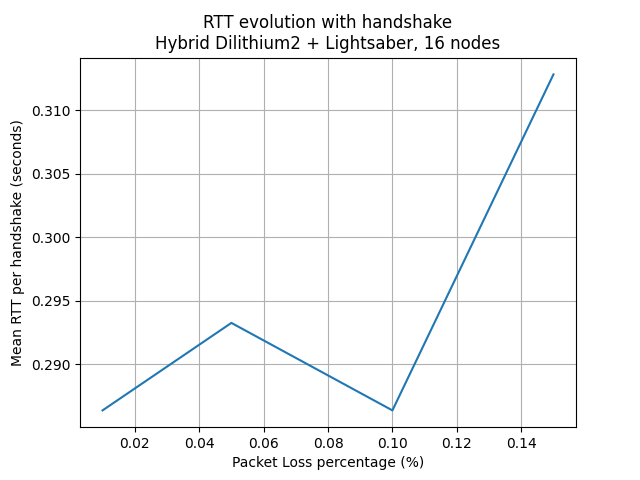
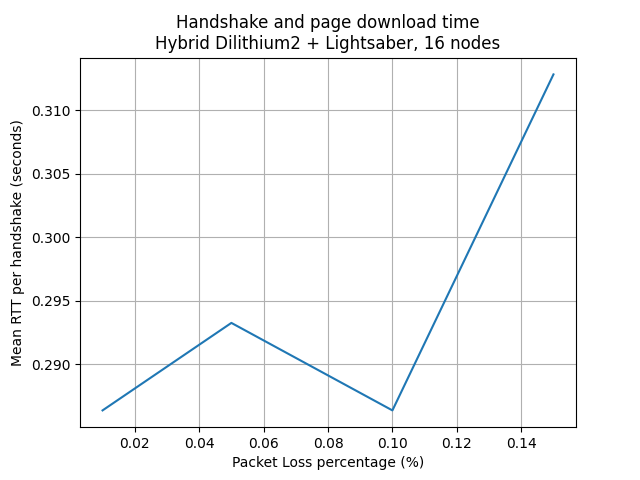
08/12 - Exploitation : Nodes graphs

Changed region(s): [[0.25, 0.0312, 0.75, 0.0625]]

diff --git a/computing_results.py b/computing_results.py
@@ -93,37 +93,104 @@ dil2_Hlightsaber = get_experiments(make_filename("dil2", "lightsaber", h_kex=Tru
 Hdil2_Hlightsaber = get_experiments(make_filename("dil2", "lightsaber", h_sig=True, h_kex=True))
 
 L1_loss_graph("2", dil2_lightsaber,
-              "RTT evolution with handshake\nDilithium2 + Lightsaber, 2 nodes",
+              "Handshake and page download time\nDilithium2 + Lightsaber, 2 nodes",
               "figures/LOSS_dil2_lightsaber_2n")
 
 L1_loss_graph("2", Hdil2_lightsaber,
-              "RTT evolution with handshake\nHybrid Dilithium2 + Lightsaber, 2 nodes",
+              "Handshake and page download time\nHybrid Dilithium2 + Lightsaber, 2 nodes",
               "figures/LOSS_hybrid_dil2_lightsaber_2n")
 
 L1_loss_graph("2", dil2_Hlightsaber,
-              "RTT evolution with handshake\nDilithium2 + Hybrid Lightsaber, 2 nodes",
+              "Handshake and page download time\nDilithium2 + Hybrid Lightsaber, 2 nodes",
               "figures/LOSS_dil2_hybrid_lightsaber_2n")
 
 L1_loss_graph("2", Hdil2_Hlightsaber,
-              "RTT evolution with handshake\nHybrid Dilithium2 + Hybrid Lightsaber, 2 nodes",
+              "Handshake and page download time\nHybrid Dilithium2 + Hybrid Lightsaber, 2 nodes",
               "figures/LOSS_hybrid_dil2_hybrid_lightsaber_2n")
 
 L1_loss_graph("16", dil2_lightsaber,
-              "RTT evolution with handshake\nDilithium2 + Lightsaber, 16 nodes",
+              "Handshake and page download time\nDilithium2 + Lightsaber, 16 nodes",
               "figures/LOSS_dil2_lightsaber_16n")
 
 L1_loss_graph("16", Hdil2_lightsaber,
-              "RTT evolution with handshake\nHybrid Dilithium2 + Lightsaber, 16 nodes",
+              "Handshake and page download time\nHybrid Dilithium2 + Lightsaber, 16 nodes",
               "figures/LOSS_hybrid_dil2_lightsaber_16n")
 
 L1_loss_graph("16", dil2_Hlightsaber,
-              "RTT evolution with handshake\nDilithium2 + Hybrid Lightsaber, 16 nodes",
+              "Handshake and page download time\nDilithium2 + Hybrid Lightsaber, 16 nodes",
               "figures/LOSS_dil2_hybrid_lightsaber_16n")
 
 L1_loss_graph("16", Hdil2_Hlightsaber,
-              "RTT evolution with handshake\nHybrid Dilithium2 + Hybrid Lightsaber, 16 nodes",
+              "Handshake and page download time\nHybrid Dilithium2 + Hybrid Lightsaber, 16 nodes",
               "figures/LOSS_hybrid_dil2_hybrid_lightsaber_16n")
 
-# L1 Nodes evolution
+# Nodes evolution
+
+
+def nodes_graph(data, title, filename):
+    x, y = [], []
+    for nodes in data.keys():
+        x.append(int(nodes))
+        y.append(get_mean_RTT(data, nodes))
+    plt.plot(x, y)
+    plt.xlabel("Number of nodes")
+    plt.ylabel("Mean RTT per handshake (seconds)")
+    plt.title(title)
+    plt.grid()
+    plt.savefig(filename)
+    plt.show()
+
+
+nodes_graph(dil2_lightsaber,
+            "Handshake and page download time\nDilithium2 + Lightsaber",
+            "figures/NODES_dil2_lightsaber")
+
+nodes_graph(Hdil2_lightsaber,
+            "Handshake and page download time\nHybrid Dilithium2 + Lightsaber",
+            "figures/NODES_hybrid_dil2_lightsaber")
+
+nodes_graph(dil2_Hlightsaber,
+            "Handshake and page download time\nDilithium2 + Hybrid Lightsaber",
+            "figures/NODES_dil2_hybrid_lightsaber")
+
+nodes_graph(Hdil2_Hlightsaber,
+            "Handshake and page download time\nHybrid Dilithium2 + Hybrid Lightsaber",
+            "figures/NODES_hybrid_dil2_hybrid_lightsaber")
+
+# --
+
+dil4_saber = get_experiments(make_filename("dil4", "saber"))
+Hdil4_saber = get_experiments(make_filename("dil4", "saber", h_sig=True))
+dil4_Hsaber = get_experiments(make_filename("dil4", "saber", h_kex=True))
+Hdil4_Hsaber = get_experiments(make_filename("dil4", "saber", h_sig=True, h_kex=True))
+
+nodes_graph(dil4_saber,
+            "Handshake and page download time\nDilithium4 + Saber",
+            "figures/NODES_dil4_saber")
+
+nodes_graph(Hdil4_saber,
+            "Handshake and page download time\nHybrid Dilithium4 + Saber",
+            "figures/NODES_hybrid_dil4_saber")
+
+nodes_graph(dil4_Hsaber,
+            "Handshake and page download time\nDilithium4 + Hybrid Saber",
+            "figures/NODES_dil4_hybrid_saber")
+
+nodes_graph(Hdil4_Hsaber,
+            "Handshake and page download time\nHybrid Dilithium4 + Hybrid Saber",
+            "figures/NODES_hybrid_dil4_hybrid_saber")
+
+# --
+
+# fal1024_firesaber = get_experiments(make_filename("fal1024", "firesaber"))
+# Hfal1024_firesaber = get_experiments(make_filename("fal1024", "firesaber", h_sig=True))
+fal1024_Hfiresaber = get_experiments(make_filename("fal1024", "firesaber", h_kex=True))
+# Hfal1024_Hfiresaber = get_experiments(make_filename("fal1024", "firesaber", h_sig=True, h_kex=True))
+
+nodes_graph(fal1024_Hfiresaber,
+            "Handshake and page download time\nFalcon1024 + Hybrid Firesaber",
+            "figures/NODES_fal1024_hybrid_firesaber")
+
+# Comparing the algorithms between themselves
 
 
